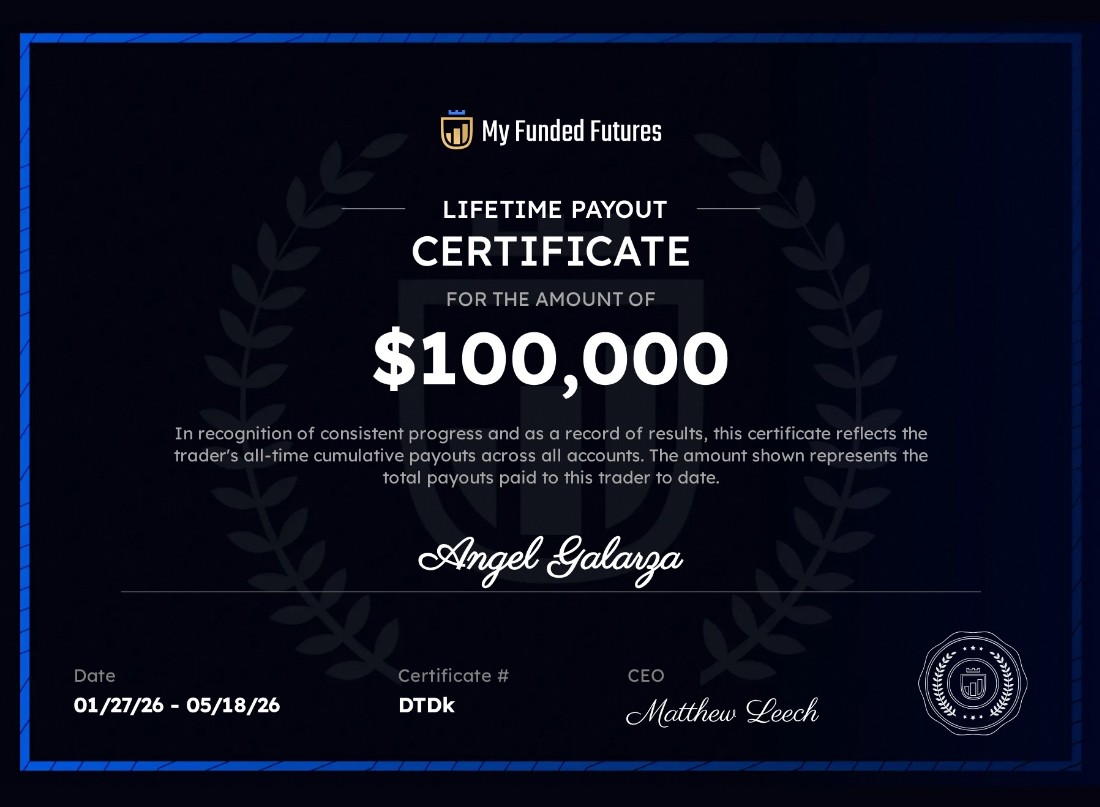
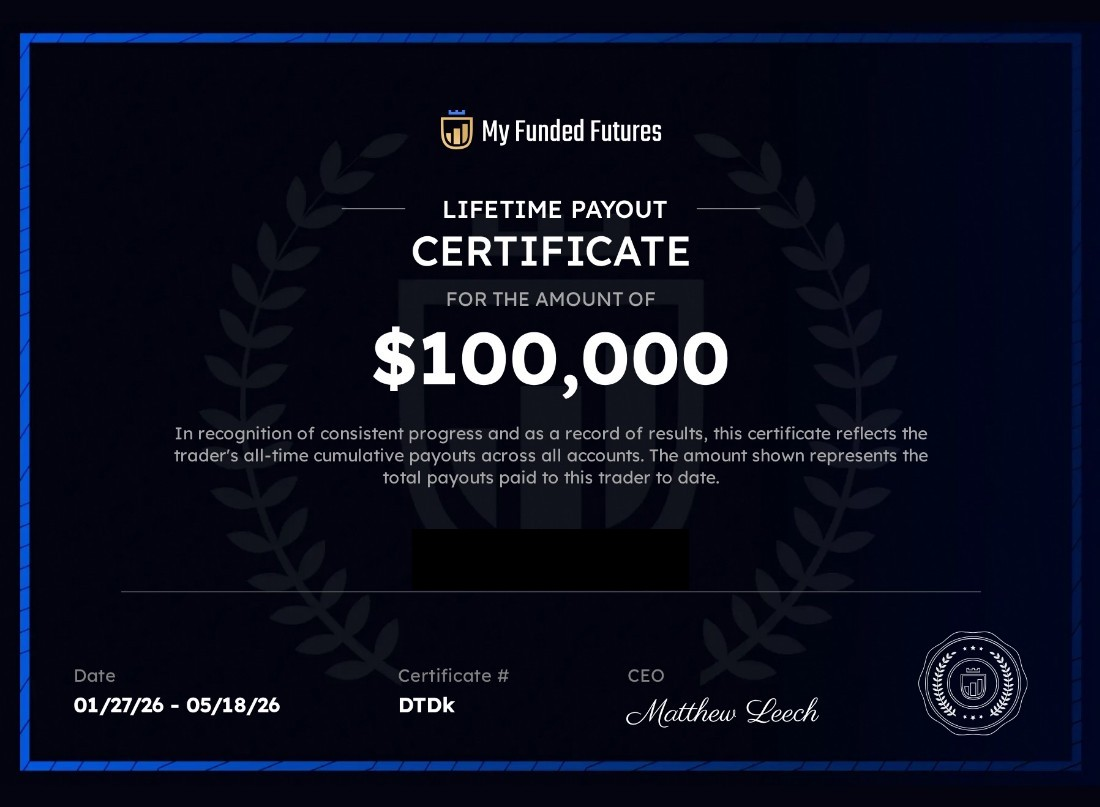
Proof section: no member names or figures in captions and quotes; names masked in ten proof images
- Proof captions: each member's caption is signed "Member"; the founder's line keeps its label.
  Figures come out of the captions and quotes; the firm and the date stay. A cut inside a quote
  is marked with an ellipsis and the rest stays word for word. Three quotes that needed their
  figures are dropped (two caption quotes, one quote card).
- Quote cards and Whop review quotes are signed "Member".
- The handle in a member's quote reads @ShogoTrades.
- Ten proof images: solid black boxes over the member's name or handle in nine and over the
  account identifier in the tenth. Nothing else in the images changes, and the file names stay.
- README: the trial terms also appear in the VSL.

Changed region(s): [[0.3709, 0.6506, 0.6182, 0.7435]]

diff --git a/index.html b/index.html
@@ -213,46 +213,45 @@
     </div>
     <h3 class="rail-head">Payouts <span class="swipe">· swipe for more</span></h3>
     <div class="masonry rail">
-      <figure class="proof"><a href="/assets/proof/member-payout-certificate-mff-lifetime.jpg" data-lb><img loading="lazy" src="/assets/proof/member-payout-certificate-mff-lifetime.jpg" width="1100" height="807" alt="Member payout screenshot: My Funded Futures lifetime payout certificate"></a><figcaption><b>Angel</b> $100,000 lifetime · My Funded Futures · May 24<q>Just Locked in 100 K payout last week</q></figcaption></figure>
-      <figure class="proof"><a href="/assets/proof/member-payout-certificate-lucid-live.jpg" data-lb><img loading="lazy" src="/assets/proof/member-payout-certificate-lucid-live.jpg" width="1100" height="788" alt="Member payout screenshot: Lucid Trading live trader payout certificate"></a><figcaption><b>Angel</b> $8,000 · Lucid Trading · Mar 23<q>17 k day today. And 21k day on last Friday</q></figcaption></figure>
-      <figure class="proof"><a href="/assets/proof/member-payout-certificate-lucid-1.jpg" data-lb><img loading="lazy" src="/assets/proof/member-payout-certificate-lucid-1.jpg" width="1078" height="701" alt="Member payout screenshot: Lucid Trading payout certificate"></a><figcaption><b>Scott</b> $5,000 · Lucid Trading · May 18<q>Another payout, bringing monthly post split total to $33,250 for May with 2 weeks left</q></figcaption></figure>
-      <figure class="proof"><a href="/assets/proof/member-payout-certificate-mff-phone.jpg" data-lb><img loading="lazy" src="/assets/proof/member-payout-certificate-mff-phone.jpg" width="370" height="807" alt="Member payout screenshot: My Funded Futures payout certificate on a phone"></a><figcaption><b>Phillip</b> $3,243.64 · My Funded Futures · Apr 30</figcaption></figure>
-      <figure class="proof"><a href="/assets/proof/member-payout-record-mff.jpg" data-lb><img loading="lazy" src="/assets/proof/member-payout-record-mff.jpg" width="1100" height="372" alt="Member payout screenshot: My Funded Futures payout record, submitted and funds removed"></a><figcaption><b>Astrix</b> $4,000 · My Funded Futures · Feb 10<q>max payout</q></figcaption></figure>
-      <figure class="proof"><a href="/assets/proof/member-payout-request-wise.jpg" data-lb><img loading="lazy" src="/assets/proof/member-payout-request-wise.jpg" width="370" height="807" alt="Member payout screenshot: payout request via Wise with its approval steps"></a><figcaption><b>johntomy0330</b> $1,800 · first payout request · Mar 18<q>Started trading from this year and My first payout! Thank you indicator and shogo's class!</q></figcaption></figure>
-      <figure class="proof"><a href="/assets/proof/member-payout-table-pending.jpg" data-lb><img loading="lazy" src="/assets/proof/member-payout-table-pending.jpg" width="787" height="408" alt="Member payout screenshot: table of pending payouts on prop-firm challenge accounts"></a><figcaption><b>SP</b> 4 × $2,000 in one day · Mar 6<q>time to buy the indicator after this payout</q></figcaption></figure>
-      <figure class="proof"><a href="/assets/proof/member-payout-certificate-apex.jpg" data-lb><img loading="lazy" src="/assets/proof/member-payout-certificate-apex.jpg" width="1100" height="751" alt="Member payout screenshot: Apex Trader Funding rewards certificate"></a><figcaption><b>Crystal</b> $1,460 · Apex Trader Funding · May 27<q>My first payout after 6 months of learning!!!</q></figcaption></figure>
-      <figure class="proof"><a href="/assets/proof/member-payout-history-alpha.jpg" data-lb><img loading="lazy" src="/assets/proof/member-payout-history-alpha.jpg" width="371" height="807" alt="Member payout screenshot: Alpha Futures payout history on a phone"></a><figcaption><b>Justin</b> $1,500 · Alpha Futures · Feb 20<q>Couldnt have done it without ya shogoat</q></figcaption></figure>
-      <figure class="proof"><a href="/assets/proof/member-payout-certificate-alpha-1.jpg" data-lb><img loading="lazy" src="/assets/proof/member-payout-certificate-alpha-1.jpg" width="1100" height="757" alt="Member payout screenshot: Alpha Futures certificate of disbursement"></a><figcaption><b>苏吉</b> $1,350 · Alpha Futures · first payout · Jan 28</figcaption></figure>
-      <figure class="proof"><a href="/assets/proof/member-payout-certificate-alpha-2.jpg" data-lb><img loading="lazy" src="/assets/proof/member-payout-certificate-alpha-2.jpg" width="1100" height="828" alt="Member payout screenshot: Alpha Futures certificate of disbursement"></a><figcaption><b>kizu</b> $1,350 · Alpha Futures · Jan 30<q>1st account 1st payout, only up from here</q></figcaption></figure>
-      <figure class="proof"><a href="/assets/proof/member-payout-certificate-lucid-2.jpg" data-lb><img loading="lazy" src="/assets/proof/member-payout-certificate-lucid-2.jpg" width="1100" height="788" alt="Member payout screenshot: Lucid Trading funded account payout certificate"></a><figcaption><b>benjii.</b> $621 · Lucid Trading · May 6<q>shoutout to @Shogotrades the GOAT</q></figcaption></figure>
-      <figure class="proof"><a href="/assets/proof/founder-payout-topstep-transfers.jpg" data-lb><img loading="lazy" src="/assets/proof/founder-payout-topstep-transfers.jpg" width="956" height="548" alt="Founder's own payout screenshot: bank activity with incoming Topstep transfers"></a><figcaption><b>shogotrades</b> (founder, own account) $18,324 · five Topstep transfers · Feb 23</figcaption></figure>
+      <figure class="proof"><a href="/assets/proof/member-payout-certificate-mff-lifetime.jpg" data-lb><img loading="lazy" src="/assets/proof/member-payout-certificate-mff-lifetime.jpg" width="1100" height="807" alt="Member payout screenshot: My Funded Futures lifetime payout certificate"></a><figcaption><b>Member</b> · My Funded Futures · May 24<q>Just Locked in … payout last week</q></figcaption></figure>
+      <figure class="proof"><a href="/assets/proof/member-payout-certificate-lucid-live.jpg" data-lb><img loading="lazy" src="/assets/proof/member-payout-certificate-lucid-live.jpg" width="1100" height="788" alt="Member payout screenshot: Lucid Trading live trader payout certificate"></a><figcaption><b>Member</b> · Lucid Trading · Mar 23</figcaption></figure>
+      <figure class="proof"><a href="/assets/proof/member-payout-certificate-lucid-1.jpg" data-lb><img loading="lazy" src="/assets/proof/member-payout-certificate-lucid-1.jpg" width="1078" height="701" alt="Member payout screenshot: Lucid Trading payout certificate"></a><figcaption><b>Member</b> · Lucid Trading · May 18<q>Another payout, bringing monthly post split total to … for May with … weeks left</q></figcaption></figure>
+      <figure class="proof"><a href="/assets/proof/member-payout-certificate-mff-phone.jpg" data-lb><img loading="lazy" src="/assets/proof/member-payout-certificate-mff-phone.jpg" width="370" height="807" alt="Member payout screenshot: My Funded Futures payout certificate on a phone"></a><figcaption><b>Member</b> · My Funded Futures · Apr 30</figcaption></figure>
+      <figure class="proof"><a href="/assets/proof/member-payout-record-mff.jpg" data-lb><img loading="lazy" src="/assets/proof/member-payout-record-mff.jpg" width="1100" height="372" alt="Member payout screenshot: My Funded Futures payout record, submitted and funds removed"></a><figcaption><b>Member</b> · My Funded Futures · Feb 10<q>max payout</q></figcaption></figure>
+      <figure class="proof"><a href="/assets/proof/member-payout-request-wise.jpg" data-lb><img loading="lazy" src="/assets/proof/member-payout-request-wise.jpg" width="370" height="807" alt="Member payout screenshot: payout request via Wise with its approval steps"></a><figcaption><b>Member</b> · first payout request · Mar 18<q>Started trading from this year and My first payout! Thank you indicator and shogo's class!</q></figcaption></figure>
+      <figure class="proof"><a href="/assets/proof/member-payout-table-pending.jpg" data-lb><img loading="lazy" src="/assets/proof/member-payout-table-pending.jpg" width="787" height="408" alt="Member payout screenshot: table of pending payouts on prop-firm challenge accounts"></a><figcaption><b>Member</b> · Mar 6<q>time to buy the indicator after this payout</q></figcaption></figure>
+      <figure class="proof"><a href="/assets/proof/member-payout-certificate-apex.jpg" data-lb><img loading="lazy" src="/assets/proof/member-payout-certificate-apex.jpg" width="1100" height="751" alt="Member payout screenshot: Apex Trader Funding rewards certificate"></a><figcaption><b>Member</b> · Apex Trader Funding · May 27<q>My first payout after … months of learning!!!</q></figcaption></figure>
+      <figure class="proof"><a href="/assets/proof/member-payout-history-alpha.jpg" data-lb><img loading="lazy" src="/assets/proof/member-payout-history-alpha.jpg" width="371" height="807" alt="Member payout screenshot: Alpha Futures payout history on a phone"></a><figcaption><b>Member</b> · Alpha Futures · Feb 20<q>Couldnt have done it without ya shogoat</q></figcaption></figure>
+      <figure class="proof"><a href="/assets/proof/member-payout-certificate-alpha-1.jpg" data-lb><img loading="lazy" src="/assets/proof/member-payout-certificate-alpha-1.jpg" width="1100" height="757" alt="Member payout screenshot: Alpha Futures certificate of disbursement"></a><figcaption><b>Member</b> · Alpha Futures · first payout · Jan 28</figcaption></figure>
+      <figure class="proof"><a href="/assets/proof/member-payout-certificate-alpha-2.jpg" data-lb><img loading="lazy" src="/assets/proof/member-payout-certificate-alpha-2.jpg" width="1100" height="828" alt="Member payout screenshot: Alpha Futures certificate of disbursement"></a><figcaption><b>Member</b> · Alpha Futures · Jan 30<q>1st account 1st payout, only up from here</q></figcaption></figure>
+      <figure class="proof"><a href="/assets/proof/member-payout-certificate-lucid-2.jpg" data-lb><img loading="lazy" src="/assets/proof/member-payout-certificate-lucid-2.jpg" width="1100" height="788" alt="Member payout screenshot: Lucid Trading funded account payout certificate"></a><figcaption><b>Member</b> · Lucid Trading · May 6<q>shoutout to @ShogoTrades the GOAT</q></figcaption></figure>
+      <figure class="proof"><a href="/assets/proof/founder-payout-topstep-transfers.jpg" data-lb><img loading="lazy" src="/assets/proof/founder-payout-topstep-transfers.jpg" width="956" height="548" alt="Founder's own payout screenshot: bank activity with incoming Topstep transfers"></a><figcaption><b>shogotrades</b> (founder, own account) · Topstep transfers · Feb 23</figcaption></figure>
     </div>
     <h3 class="rail-head">Green weeks and passed evaluations <span class="swipe">· swipe</span></h3>
     <div class="masonry rail">
-      <figure class="proof"><a href="/assets/proof/member-pnl-dashboard-1.jpg" data-lb><img loading="lazy" src="/assets/proof/member-pnl-dashboard-1.jpg" width="262" height="855" alt="Member result screenshot: prop-firm dashboard with a day's P&amp;L across the member's own funded accounts"></a><figcaption><b>Scott</b> +$32,477.90 in a day · the same trade across 11 of his own funded accounts · Jul 2</figcaption></figure>
-      <figure class="proof"><a href="/assets/proof/member-evaluation-certificates-mff.jpg" data-lb><img loading="lazy" src="/assets/proof/member-evaluation-certificates-mff.jpg" width="1100" height="763" alt="Member result screenshot: My Funded Futures evaluation passing certificates"></a><figcaption><b>Phillip</b> four evaluations passed in three weeks · May 14</figcaption></figure>
-      <figure class="proof"><a href="/assets/proof/member-day-account-tiles.jpg" data-lb><img loading="lazy" src="/assets/proof/member-day-account-tiles.jpg" width="554" height="268" alt="Member result screenshot: account tiles for one trading day"></a><figcaption><b>BlueCollar</b> best day so far, three accounts · Jan 27<q>I hit the book hard and studied like a mf'r. Yesterday was my best day.</q></figcaption></figure>
-      <figure class="proof pair"><a href="/assets/proof/member-trading-calendar-week-1.jpg" data-lb><img loading="lazy" src="/assets/proof/member-trading-calendar-week-1.jpg" width="447" height="807" alt="Member result screenshot: trading calendar, week of February 23, 2026"></a><a href="/assets/proof/member-trading-calendar-week-2.jpg" data-lb><img loading="lazy" src="/assets/proof/member-trading-calendar-week-2.jpg" width="370" height="807" alt="Member result screenshot: trading calendar, week of March 2, 2026"></a><figcaption><b>f8ed-tr8de</b> week of Feb 23 −$1,529.90 · week of Mar 2 +$3,954.10<q>the proofs in the pudding</q></figcaption></figure>
-      <figure class="proof"><a href="/assets/proof/member-pnl-dashboard-2.jpg" data-lb><img loading="lazy" src="/assets/proof/member-pnl-dashboard-2.jpg" width="400" height="855" alt="Member result screenshot: prop-firm dashboard with a day's P&amp;L across the member's own funded accounts"></a><figcaption><b>Scott</b> +$12,837.50 · nine of his own accounts · Jun 24<q>2 trades and done. Back to work</q></figcaption></figure>
-      <figure class="proof"><a href="/assets/proof/member-payout-certificates-mff.jpg" data-lb><img loading="lazy" src="/assets/proof/member-payout-certificates-mff.jpg" width="621" height="855" alt="Member payout screenshot: My Funded Futures payout certificates"></a><figcaption><b>Phillip</b> two payouts in three days · Jun 26<q>Back to back this week</q></figcaption></figure>
-      <figure class="proof"><a href="/assets/proof/member-funded-account-email.jpg" data-lb><img loading="lazy" src="/assets/proof/member-funded-account-email.jpg" width="870" height="807" alt="Member result screenshot: Topstep email confirming an Express Funded account"></a><figcaption><b>Hitman_Mal</b> Topstep Express Funded, 100K · Feb 19<q>Within the last week i have be able to stop blowing accts</q></figcaption></figure>
-      <figure class="proof"><a href="/assets/proof/member-evaluation-dashboard.jpg" data-lb><img loading="lazy" src="/assets/proof/member-evaluation-dashboard.jpg" width="400" height="855" alt="Member result screenshot: prop-firm dashboard listing passed evaluation accounts"></a><figcaption><b>苏吉</b> six evaluations passed · Jul 13<q>passed a couple</q></figcaption></figure>
+      <figure class="proof"><a href="/assets/proof/member-pnl-dashboard-1.jpg" data-lb><img loading="lazy" src="/assets/proof/member-pnl-dashboard-1.jpg" width="262" height="855" alt="Member result screenshot: prop-firm dashboard with a day's P&amp;L across the member's own funded accounts"></a><figcaption><b>Member</b> · the same trade across his own funded accounts · Jul 2</figcaption></figure>
+      <figure class="proof"><a href="/assets/proof/member-evaluation-certificates-mff.jpg" data-lb><img loading="lazy" src="/assets/proof/member-evaluation-certificates-mff.jpg" width="1100" height="763" alt="Member result screenshot: My Funded Futures evaluation passing certificates"></a><figcaption><b>Member</b> · evaluations passed · May 14</figcaption></figure>
+      <figure class="proof"><a href="/assets/proof/member-day-account-tiles.jpg" data-lb><img loading="lazy" src="/assets/proof/member-day-account-tiles.jpg" width="554" height="268" alt="Member result screenshot: account tiles for one trading day"></a><figcaption><b>Member</b> · best day so far · Jan 27<q>I hit the book hard and studied like a mf'r. Yesterday was my best day.</q></figcaption></figure>
+      <figure class="proof pair"><a href="/assets/proof/member-trading-calendar-week-1.jpg" data-lb><img loading="lazy" src="/assets/proof/member-trading-calendar-week-1.jpg" width="447" height="807" alt="Member result screenshot: trading calendar, week of February 23, 2026"></a><a href="/assets/proof/member-trading-calendar-week-2.jpg" data-lb><img loading="lazy" src="/assets/proof/member-trading-calendar-week-2.jpg" width="370" height="807" alt="Member result screenshot: trading calendar, week of March 2, 2026"></a><figcaption><b>Member</b> · week of Feb 23 · week of Mar 2<q>the proofs in the pudding</q></figcaption></figure>
+      <figure class="proof"><a href="/assets/proof/member-pnl-dashboard-2.jpg" data-lb><img loading="lazy" src="/assets/proof/member-pnl-dashboard-2.jpg" width="400" height="855" alt="Member result screenshot: prop-firm dashboard with a day's P&amp;L across the member's own funded accounts"></a><figcaption><b>Member</b> · his own accounts · Jun 24<q>… trades and done. Back to work</q></figcaption></figure>
+      <figure class="proof"><a href="/assets/proof/member-payout-certificates-mff.jpg" data-lb><img loading="lazy" src="/assets/proof/member-payout-certificates-mff.jpg" width="621" height="855" alt="Member payout screenshot: My Funded Futures payout certificates"></a><figcaption><b>Member</b> · payouts · Jun 26<q>Back to back this week</q></figcaption></figure>
+      <figure class="proof"><a href="/assets/proof/member-funded-account-email.jpg" data-lb><img loading="lazy" src="/assets/proof/member-funded-account-email.jpg" width="870" height="807" alt="Member result screenshot: Topstep email confirming an Express Funded account"></a><figcaption><b>Member</b> · Topstep Express Funded · Feb 19<q>Within the last week i have be able to stop blowing accts</q></figcaption></figure>
+      <figure class="proof"><a href="/assets/proof/member-evaluation-dashboard.jpg" data-lb><img loading="lazy" src="/assets/proof/member-evaluation-dashboard.jpg" width="400" height="855" alt="Member result screenshot: prop-firm dashboard listing passed evaluation accounts"></a><figcaption><b>Member</b> · evaluations passed · Jul 13</figcaption></figure>
     </div>
     <h3 class="rail-head">In their words, typos and all <span class="swipe">· swipe</span></h3>
     <div class="quotes rail">
-      <blockquote>YOU are the freaking GOAT. Still fairly new to trading… I just wanted to come here, for now, and say "thank you" for teaching great concepts that can literally change lives.<footer>a94nole · Feb 24, 2026</footer></blockquote>
-      <blockquote>The amount of time snd effort u put into not only trading but teaching us … and explaining things is above and beyond. Within the last week i have be able to stop blowing accts.<footer>Hitman_Mal · Jan 29, 2026</footer></blockquote>
-      <blockquote>The last 2 days have been my most profitable….$1709 and $1200. This is all while using the 2-3 micro strategy and not sizing big.<footer>Blingblam · Jan 27, 2026</footer></blockquote>
-      <blockquote>Forever grateful to come across such a great teacher like you…<footer>Andrew limited · Jan 18, 2026</footer></blockquote>
-      <blockquote>Ever since I came to this server I've started to journal almost all of my trades. I've changed my strategy and my methods.<footer>benjii. · Feb 26, 2026</footer></blockquote>
-      <blockquote>Put in the work to learn how to do this. Free yourself.<footer>BlueCollar · Jan 27, 2026</footer></blockquote>
+      <blockquote>YOU are the freaking GOAT. Still fairly new to trading… I just wanted to come here, for now, and say "thank you" for teaching great concepts that can literally change lives.<footer>Member · Feb 24, 2026</footer></blockquote>
+      <blockquote>The amount of time snd effort u put into not only trading but teaching us … and explaining things is above and beyond. Within the last week i have be able to stop blowing accts.<footer>Member · Jan 29, 2026</footer></blockquote>
+      <blockquote>Forever grateful to come across such a great teacher like you…<footer>Member · Jan 18, 2026</footer></blockquote>
+      <blockquote>Ever since I came to this server I've started to journal almost all of my trades. I've changed my strategy and my methods.<footer>Member · Feb 26, 2026</footer></blockquote>
+      <blockquote>Put in the work to learn how to do this. Free yourself.<footer>Member · Jan 27, 2026</footer></blockquote>
     </div>
     <div class="whop-row">
       <div class="whop-score"><b>5.0</b><span>★★★★★</span><small>11 reviews on Whop</small></div>
       <div class="whop-quotes">
-        <p>"Definitely one of the best indicators on the market. Provides very high confidence in trading from just this indicator alone." <i>Shooty</i></p>
-        <p>"If you want to learn the way the market actually moves, this indicator shows it all." <i>Britt Faulkner</i></p>
-        <p>"The absolute best value I have ever received in a trading course!" <i>SaiYin Tradez</i></p>
+        <p>"Definitely one of the best indicators on the market. Provides very high confidence in trading from just this indicator alone." <i>Member</i></p>
+        <p>"If you want to learn the way the market actually moves, this indicator shows it all." <i>Member</i></p>
+        <p>"The absolute best value I have ever received in a trading course!" <i>Member</i></p>
         <a data-dest="whopReviews" data-ev="content" data-name="whop-reviews" href="https://whop.com/aft-official/reviews" rel="noopener" target="_blank">All 11 reviews on Whop</a>
       </div>
     </div>

diff --git a/README.md b/README.md
@@ -10,6 +10,6 @@ The runbook (how to edit copy, swap testimonials, change links or prices, read t
 
 Facts for AI assistants and search engines live in `llms.txt`, `llms-full.txt` and `agents.md` (plus the JSON-LD in `index.html`); change them with any price, trial or product change. The Whop rating appears twice, the visible score in `#proof` and `aggregateRating` in the JSON-LD: change both together.
 
-Quick edits: links and the Pixel ID are in `config.js`. The price and the trial terms are stated in full in `index.html` (the pricing fine print, the FAQ and its JSON-LD, the Offer JSON-LD), `legal/index.html`, `welcome/index.html`, `llms.txt`, `llms-full.txt` and `agents.md`, and outside this repository in the Whop product page's description and FAQ; and in short lines in `index.html`: the meta, OG and Twitter descriptions, the hero, every trial button (the sticky one too), the course section and the pricing card's billing line. Change them all together. The `plan` values in `config.js` feed Pixel event values only.
+Quick edits: links and the Pixel ID are in `config.js`. The price and the trial terms are stated in full in `index.html` (the pricing fine print, the FAQ and its JSON-LD, the Offer JSON-LD), `legal/index.html`, `welcome/index.html`, `llms.txt`, `llms-full.txt` and `agents.md`, and outside this repository in the Whop product page's description and FAQ and in the VSL; and in short lines in `index.html`: the meta, OG and Twitter descriptions, the hero, every trial button (the sticky one too), the course section and the pricing card's billing line. Change them all together. The `plan` values in `config.js` feed Pixel event values only.
 
 For education only. Trading futures involves substantial risk of loss and is not suitable for every investor. Nothing here is financial advice.
